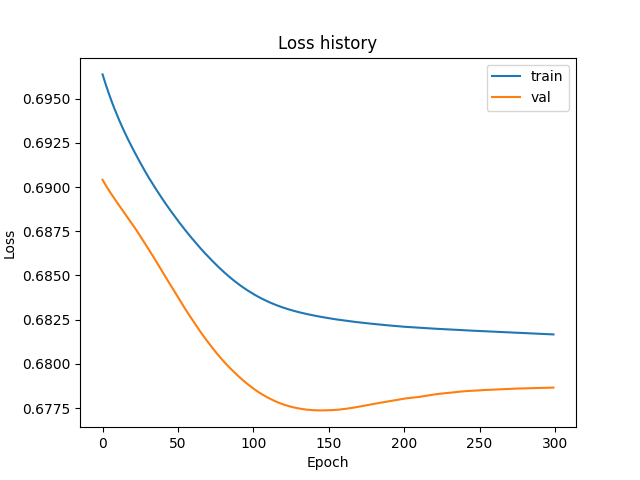
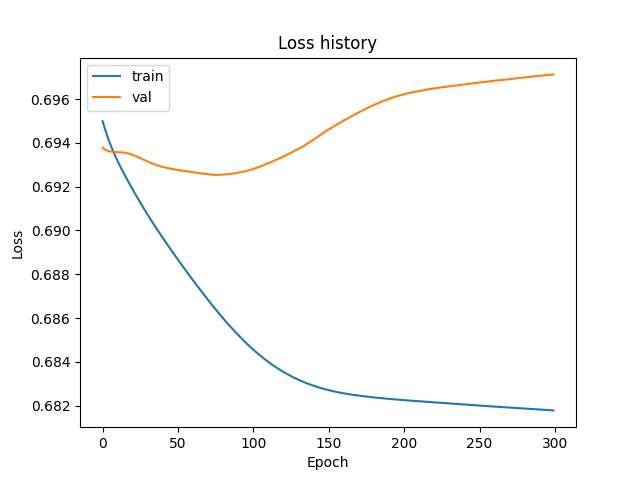
bert test results

diff --git a/src/lr_nn_classifier.py b/src/lr_nn_classifier.py
@@ -67,7 +67,7 @@ def arg_inputs():
                     "--Vectorizer", # xxx
                     type = str,
                     required = True,
-                    help = "xxx") 
+                    help = "Set the CountVectorizer or the TfidfVectorizer") 
 
     # Arguments that are needed only for the neural network:
     my_parser.add_argument("-hls", 
@@ -76,11 +76,11 @@ def arg_inputs():
                     required = False,
                     help = "Set number of nodes in the hidden layer") 
     
-    my_parser.add_argument("-rs", 
-                    "--relu_negative_slope", # xxx
-                    type = float,
-                    required = False,
-                    help = "Set value for the negative slope of the leaky relu activation function") 
+    # my_parser.add_argument("-rs", 
+    #                 "--relu_negative_slope", # xxx
+    #                 type = float,
+    #                 required = False,
+    #                 help = "Set value for the negative slope of the leaky relu activation function") 
     
     # list of arguments given
     args = my_parser.parse_args()
@@ -104,13 +104,13 @@ class LogReg(nn.Module):
 
 # Neural network
 class NeuralNetwork(nn.Module):
-    def __init__(self, hidden_layer_size:int, relu_negative_slope:float, n_input_features): #xxx
+    def __init__(self, hidden_layer_size:int, n_input_features): #xxx
         super().__init__()
         self.linear1 = nn.Linear(n_input_features, hidden_layer_size)
         self.linear2 = nn.Linear(hidden_layer_size, 1)
 
-    def forward(self, x, relu_negative_slope:float):
-        leaky_relu = nn.LeakyReLU(relu_negative_slope)
+    def forward(self, x):
+        leaky_relu = nn.LeakyReLU(0.2)
         # Linear -> ReLU
         x = self.linear1(x)
         x = leaky_relu(x)
@@ -214,13 +214,13 @@ def Vectorize(data_path, Vectorizer:str, ngram:int, maxdf:float, mindf:float):
 
 
 ###### SET MODEL PARAMETERS ######
-def InitializeModel(hidden_layer_size:int, relu_negative_slope:float, x_train, y_train, classifier, learning_rate):
+def InitializeModel(hidden_layer_size:int, x_train, y_train, classifier, learning_rate):
 
     n_samples, n_features = x_train.shape
 
     # initializing the chosen classifier
     if classifier == 'nn':
-        model = NeuralNetwork(hidden_layer_size, relu_negative_slope, n_input_features=n_features)
+        model = NeuralNetwork(hidden_layer_size, n_input_features=n_features)
     
     elif classifier == 'lr':
         model = LogReg(n_input_features=n_features)
@@ -238,12 +238,12 @@ def InitializeModel(hidden_layer_size:int, relu_negative_slope:float, x_train, y
 
 
 ###### TRAINING THE MODEL ######
-def Train(x_train, y_train, x_val, y_val, classifier, hidden_layer_size:int, relu_negative_slope:float, epochs:int, learning_rate:float): # xxx plot = True
+def Train(x_train, y_train, x_val, y_val, classifier, hidden_layer_size:int, epochs:int, learning_rate:float): # xxx plot = True
     
     print("[INFO:] Training classifier...")
 
     # Initialize the model
-    n_features, criterion, optimizer, model = InitializeModel(hidden_layer_size, relu_negative_slope, x_train, y_train, classifier, learning_rate)
+    n_features, criterion, optimizer, model = InitializeModel(hidden_layer_size, x_train, y_train, classifier, learning_rate)
 
     # for plotting
     train_loss_history = []
@@ -343,7 +343,7 @@ def main():
     x_train, y_train, x_val, y_val, x_test, y_test = Vectorize(data_path, arguments.Vectorizer, arguments.ngram, arguments.maxdf, arguments.mindf)
 
     # training the model
-    model, n_features = Train(x_train, y_train, x_val, y_val, classifier, arguments.hidden_layer_size, arguments.relu_negative_slope, arguments.epochs, arguments.learning_rate)
+    model, n_features = Train(x_train, y_train, x_val, y_val, classifier, arguments.hidden_layer_size, arguments.epochs, arguments.learning_rate)
 
     Test(n_features, model, x_test, y_test, classifier, arguments.epochs, arguments.epochs)
 
